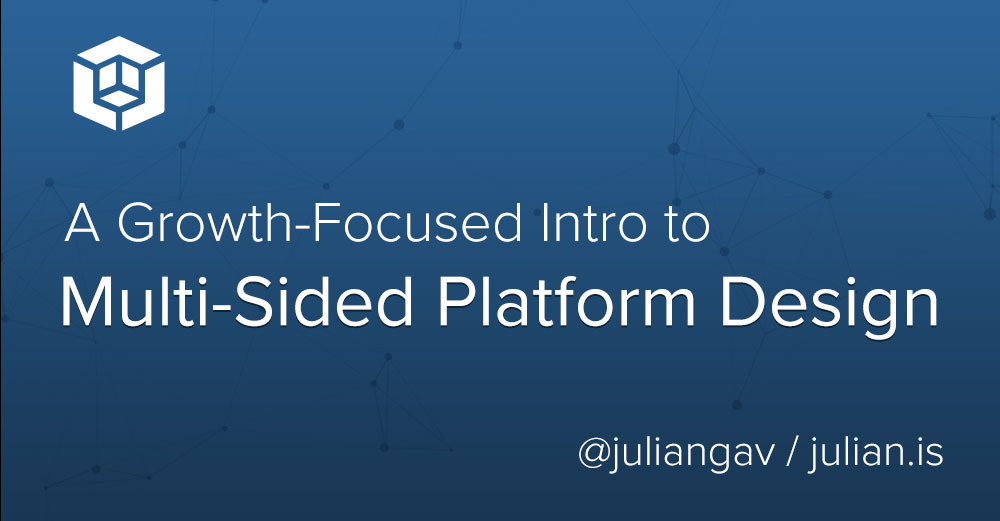
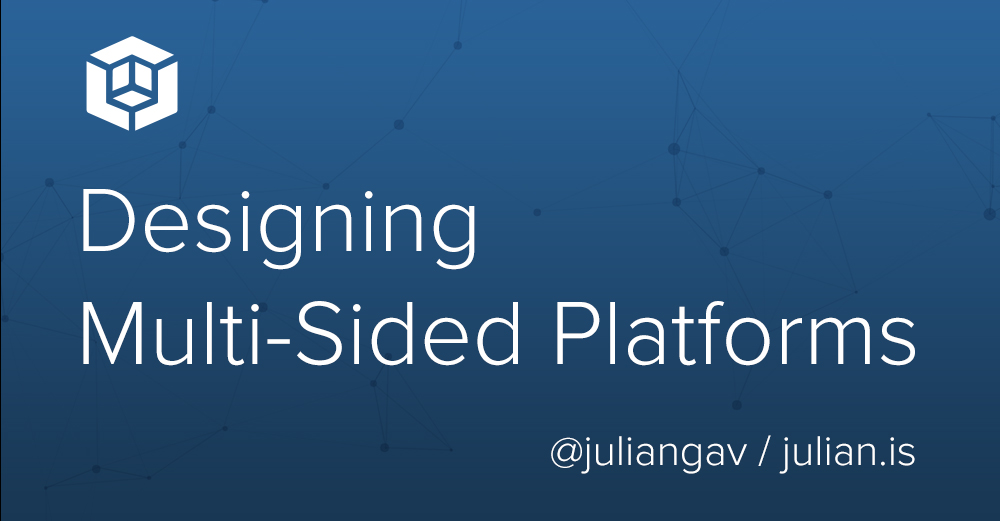
Simplified title of platform design article.

Changed region(s): [[0.062, 0.3378, 0.961, 0.7063], [0.558, 0.8292, 0.961, 0.9213], [0.062, 0.0614, 0.186, 0.2457]]

diff --git a/site/static/sw.js b/site/static/sw.js
@@ -1,4 +1,4 @@
-var CACHE_NAME = 'site-cache-a1514';
+var CACHE_NAME = 'site-cache-a1515';
 var urlsToCache = [
   '/',
   '/style.css',
@@ -58,7 +58,7 @@ self.addEventListener('fetch', function(event) {
 
 self.addEventListener('activate', function(event) {
 
-var cacheWhitelist = ['site-cache-a1514'];
+var cacheWhitelist = ['site-cache-a1515'];
 
   event.waitUntil(
     caches.keys().then(function(cacheNames) {

diff --git a/site/content/articles/2022-05-12-platform-design.md b/site/content/articles/2022-05-12-platform-design.md
@@ -1,8 +1,8 @@
 ---
-title: "A Growth-Focused Intro to Multi-Sided Platform Design"
+title: "Designing Multi-Sided Platforms"
 description: A comprehensive guide on designing the experience and growing the engagement of networked markets.
 tags: [platforms, twosidedmarkets, uxstrategy, productdesign]
-lastmod: 2022-05-12
+lastmod: 2022-06-14
 date: "2022-05-12"
 time: 20 Minutes
 categories:
